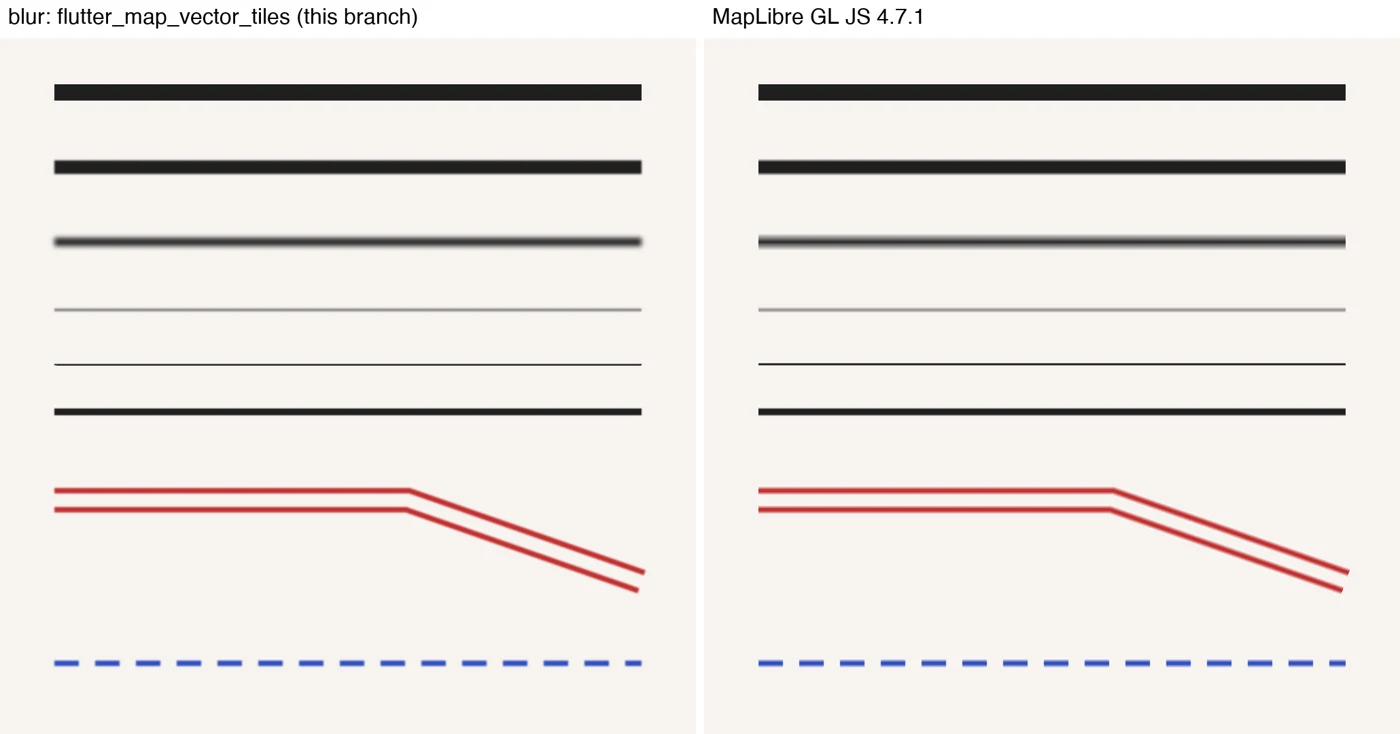
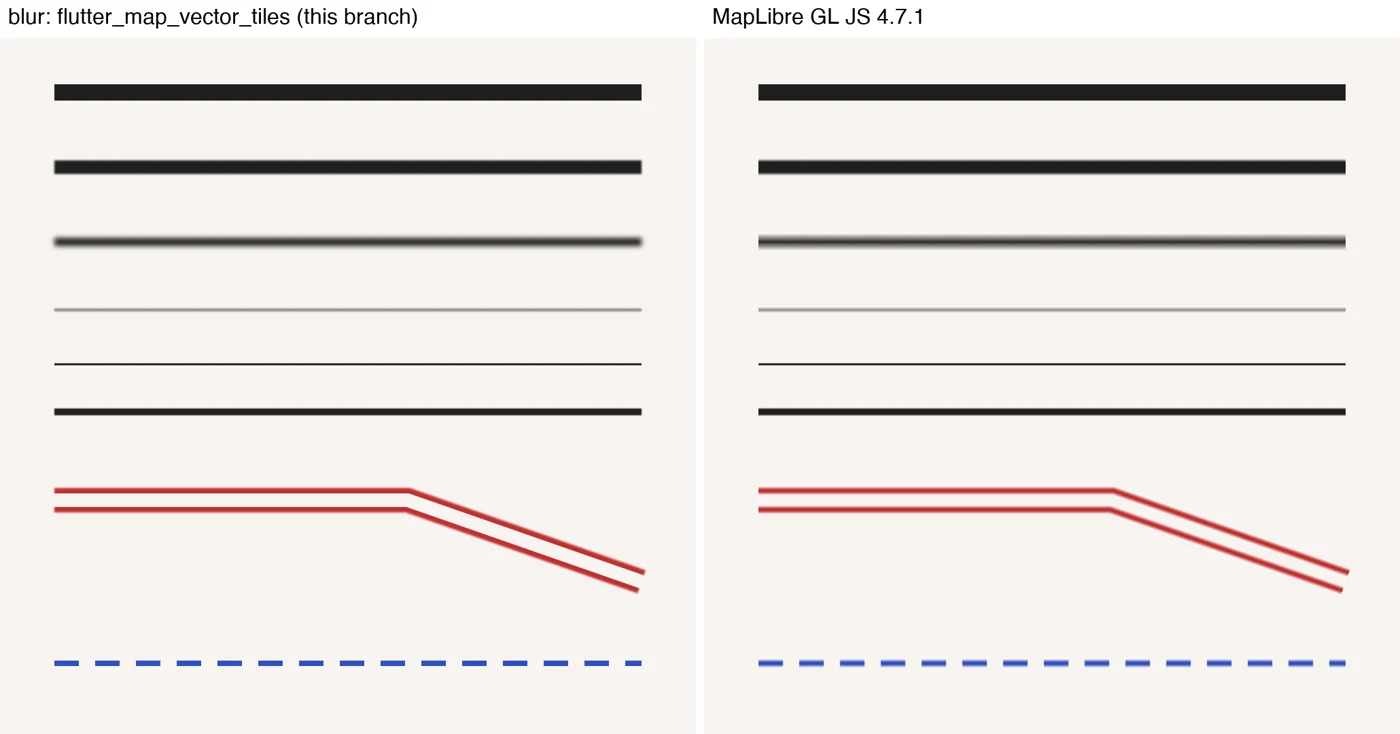
Work around two Impeller faults with blurred lines
Impeller erases a whole layer for a mask-blurred clear stroke on a bent
path, and draws nothing for a mask-blurred path of several contours
along one axis. Found on the iPhone (casings and a dashed line missing
from the blur panel) and reproduced with flutter test --enable-impeller.
A casing now blurs its outer stroke only, and such a path is drawn
narrowed without the blur.

diff --git a/lib/src/render/tile_rasterizer.dart b/lib/src/render/tile_rasterizer.dart
@@ -788,30 +788,30 @@ class TileRasterizer {
           // MapLibre fades both edges of a casing inwards from where
           // they stand: the outer one into the casing, the inner one
           // into the gap. Narrowing each stroke by the blur centres the
-          // ramps on them, as for a plain line (see [_lineStyle]).
+          // ramps on them, as for a plain line (see [_lineStyle]). Only
+          // the outer edge is blurred: Impeller erases the whole layer
+          // for a mask-blurred `BlendMode.clear` stroke on a bent path,
+          // so the inner edge stays sharp, at the middle of its ramp.
           final aa = 1 / pixelScale;
           final ramp = math.min(style.blur + aa, style.width);
-          final maskFilter = _blurFilter(ramp, pixelScale);
           casing
             ..strokeWidth = outer - (ramp - aa)
-            ..maskFilter = maskFilter;
-          gap
-            ..strokeWidth = math.max(0.0, style.gapWidth - (ramp - aa))
-            ..maskFilter = maskFilter;
-          // MapLibre blurs across a line, not along it. A blurred butt
-          // end of the gap would fade out where the casing's ends, and
-          // close it with a faint bar; a square one fades out past it.
+            ..maskFilter = _blurFilter(ramp, pixelScale);
+          gap.strokeWidth = math.max(0.0, style.gapWidth - (ramp - aa));
+          // MapLibre blurs across a line, not along it. The blurred end
+          // of the casing reaches past a butt end of the gap and would
+          // close it with a faint bar; a square one erases it.
           if (gap.strokeCap == StrokeCap.butt) gap.strokeCap = StrokeCap.square;
         }
-        canvas.drawPath(path, casing);
+        _drawStroke(canvas, path, casing);
         if (gap.strokeWidth > 0) canvas.drawPath(path, gap);
         canvas.restore();
       } else if (batch == null) {
-        canvas.drawPath(path, style.paint);
+        _drawStroke(canvas, path, style.paint);
       }
       painted = true;
     }, translate: translate);
-    if (batch != null && painted) canvas.drawPath(batch, blurred!);
+    if (batch != null && painted) _drawStroke(canvas, batch, blurred!);
     return painted;
   }
 
@@ -918,6 +918,31 @@ class TileRasterizer {
       miterLimit: miterLimit,
       paint: paint,
     );
+  }
+
+  /// Strokes [path] with [paint], minus its mask filter when the path
+  /// lies on one horizontal or vertical line: Impeller draws nothing for
+  /// a mask-blurred path of several contours whose bounds have no width
+  /// or no height (a dashed or batched axis-aligned run). Such a line is
+  /// drawn narrowed but sharp.
+  static void _drawStroke(Canvas canvas, Path path, Paint paint) {
+    if (paint.maskFilter != null) {
+      final bounds = path.getBounds();
+      if ((bounds.width == 0 || bounds.height == 0) &&
+          path.computeMetrics().take(2).length > 1) {
+        canvas.drawPath(
+            path,
+            Paint()
+              ..color = paint.color
+              ..style = PaintingStyle.stroke
+              ..strokeWidth = paint.strokeWidth
+              ..strokeCap = paint.strokeCap
+              ..strokeJoin = paint.strokeJoin
+              ..strokeMiterLimit = paint.strokeMiterLimit);
+        return;
+      }
+    }
+    canvas.drawPath(path, paint);
   }
 
   /// The Gaussian that, after anti-aliasing's own one-device-pixel

diff --git a/test/paint_properties_test.dart b/test/paint_properties_test.dart
@@ -412,7 +412,8 @@ void main() {
     test('fades the edges over the blur, as MapLibre does', () async {
       for (final blur in [2.0, 4.0]) {
         final r = await compare(8, blur);
-        expect(r.maxError, lessThan(0.08), reason: 'blur $blur');
+        // Skia stays within 0.06 of the ramp, Impeller within about 0.1.
+        expect(r.maxError, lessThan(0.12), reason: 'blur $blur');
         // A line `width` wide holds width − blur pixels of ink.
         expect(r.ink, closeTo(8 - blur, 0.05), reason: 'blur $blur');
       }
@@ -470,6 +471,50 @@ void main() {
       }
       expect(worst, lessThanOrEqualTo(2));
       expect(batched.grey(384, 192), _near(0, 30), reason: 'blurred core');
+    });
+
+    // The next two hold on Skia either way; under Impeller
+    // (`flutter test --enable-impeller`) they fail without the
+    // workarounds in `_paintLine` and `_drawStroke`.
+
+    test('a blurred dashed line along an axis still draws', () async {
+      // Several contours on one horizontal line: Impeller draws nothing
+      // for such a path under a mask filter.
+      final pixels = await _render(
+        _theme([
+          {
+            'type': 'line',
+            'paint': {
+              'line-width': 6,
+              'line-blur': 2,
+              'line-dasharray': [3, 2],
+            },
+          },
+        ]),
+        _tile([
+          _line([20, 128, 236, 128]),
+        ]),
+        devicePixelRatio: 2,
+      );
+      expect(pixels.ink(2 * 30, 2 * 110, 2 * 146), greaterThan(4));
+    });
+
+    test('a blurred casing on a bent line keeps its casing', () async {
+      // Impeller erased the whole layer for a mask-blurred gap stroke.
+      final pixels = await _render(
+        _theme([
+          {
+            'type': 'line',
+            'paint': {'line-width': 4, 'line-gap-width': 12, 'line-blur': 2},
+          },
+        ]),
+        _tile([
+          _line([20, 128, 128, 128, 236, 200]),
+        ]),
+        devicePixelRatio: 2,
+      );
+      expect(pixels.grey(2 * 64, 2 * 128), 255, reason: 'the gap');
+      expect(pixels.ink(2 * 64, 2 * 100, 2 * 160), greaterThan(8));
     });
 
     test('a blur reading the feature applies per feature', () async {
@@ -724,7 +769,10 @@ void main() {
         ]),
         _tile([_point(128, 128)]),
       );
-      expect(pixels.at(128, 128), _red);
+      // The centre is the fill; a gradient lands within a step of it.
+      final centre = pixels.at(128, 128);
+      expect(centre.r, greaterThan(0.97));
+      expect(centre.g + centre.b, lessThan(0.03));
       // Between the radius and the edge's ramp: stroke, opaque.
       final stroke = pixels.at(128 + 30, 128);
       expect(stroke.b, greaterThan(0.9));

diff --git a/test/AGENTS.md b/test/AGENTS.md
@@ -36,7 +36,7 @@ lifecycle or painting is covered by widget tests that pump a real
 | `line_pattern_test.dart`, `fill_pattern_test.dart` | Pattern paints; a `line-color` reading only `["id"]` or `["geometry-type"]` evaluated per feature, not shared across the tile |
 | `fill_extrusion_test.dart` | `fill-extrusion-opacity` per layer: overlapping buildings blended once (constant colour, per-feature colour and patterned), the alpha of `fill-extrusion-color` ignored (constant and per-feature), a plain fill as the double-blend control, no outline on extrusions, a colour reading only `["id"]` or `["geometry-type"]` evaluated per building, and a building decoded from bytes wound the wrong way still filling its overlap (the decoder's winding fix, end to end) |
 | `fill_outline_test.dart` | `fill-outline-color` dimmed by `fill-opacity` (constant and per-feature, multiplying the outline's own alpha), hidden at opacity 0, untouched by the alpha of `fill-color`, evaluated per feature when it reads only `["id"]`, one device pixel wide at pixel ratios 1 and 3, off under `fill-antialias: false`. The square's edge sits on a pixel-column centre so the outline covers exactly one column |
-| `paint_properties_test.dart` | The geometry paint and layout properties beyond colour, width and opacity, pixel by pixel: `*-translate` (constant, a zoom-interpolated `[x, y]`, a legacy stop function, a feature translated in from beyond the cull window, a pattern moving with its fill, flat extrusions), `line-offset` (sides, polygon inset with a closed corner, per feature), `line-blur` compared row by row with MapLibre's ramp at dpr 3 (full ramp, a line narrower than twice its blur, a sub-pixel blur keeping its ink, batched or drawn per feature, a layer-wide opaque blur drawn as one path matching per-feature drawing, per feature, a blurred casing keeping its gap), `line-miter-limit` (the spec default bevels a 40° turn Skia's own default would miter; a negative limit bevels too), `*-sort-key` (higher key on top, ties in source order, a zoom-reading key re-sorting per zoom), circles (stroke outside the radius, a translucent stroke not covering the fill, `circle-blur` 1 and 0.5, a blurred fill blending into its stroke), `background-pattern` (and its colour fallback, and no gap colour), `resampling`/`raster-resampling`, and the reader leaving every new property null when unset |
+| `paint_properties_test.dart` | The geometry paint and layout properties beyond colour, width and opacity, pixel by pixel: `*-translate` (constant, a zoom-interpolated `[x, y]`, a legacy stop function, a feature translated in from beyond the cull window, a pattern moving with its fill, flat extrusions), `line-offset` (sides, polygon inset with a closed corner, per feature), `line-blur` compared row by row with MapLibre's ramp at dpr 3 (full ramp, a line narrower than twice its blur, a sub-pixel blur keeping its ink, batched or drawn per feature, a layer-wide opaque blur drawn as one path matching per-feature drawing, per feature, a blurred casing keeping its gap; and two Impeller faults — a blurred axis-aligned dashed line still drawing, a blurred bent casing keeping its casing — which only fail under `flutter test --enable-impeller` without the workarounds), `line-miter-limit` (the spec default bevels a 40° turn Skia's own default would miter; a negative limit bevels too), `*-sort-key` (higher key on top, ties in source order, a zoom-reading key re-sorting per zoom), circles (stroke outside the radius, a translucent stroke not covering the fill, `circle-blur` 1 and 0.5, a blurred fill blending into its stroke), `background-pattern` (and its colour fallback, and no gap colour), `resampling`/`raster-resampling`, and the reader leaving every new property null when unset |
 | `disk_cache_test.dart`, `lru_cache_test.dart` | Cache eviction, TTL, size sweep |
 | `style_reader_cache_test.dart` | Stale-while-revalidate style loading |
 | `style_reader_sources_test.dart` | Source URL resolution: relative TileJSON/tile templates (ArcGIS `root.json` shape), `{key}` substitution |

diff --git a/compare/results/shots/2026-10-26-paint-properties/README.md b/compare/results/shots/2026-10-26-paint-properties/README.md
@@ -19,7 +19,7 @@ in headless Chrome. Same scale and the same bytes on both sides.
 |---|---|---|
 | `translate.webp` | `fill-translate` (a Bright-style building top, a translucent fill over its original outline), `line-translate`, `circle-translate` | none visible |
 | `offset.webp` | `line-offset` ±14 px on a zigzag, ±10 px on a square and a triangle | at sharp turns MapLibre leaves the outer side open and lets the inner side cross; this package bevels the outside and meets on the inside |
-| `blur.webp` | `line-blur` 0, 2, 6 on 12 px lines, 4 on a 4 px line, 0.5 on a 2 px line, 1 on a 6 px line, a blurred casing, a blurred dash | within about 0.05 alpha of MapLibre's ramp for blurs of 2 px and more; a 1 px blur has a steeper edge, up to 0.27 alpha off in single device-pixel rows, holding the same ink to within 10 % (measured at a device pixel ratio of 3 in `test/paint_properties_test.dart`'s set-up) |
+| `blur.webp` | `line-blur` 0, 2, 6 on 12 px lines, 4 on a 4 px line, 0.5 on a 2 px line, 1 on a 6 px line, a blurred casing, a blurred dash | within about 0.05 alpha of MapLibre's ramp for blurs of 2 px and more; a 1 px blur has a steeper edge, up to 0.27 alpha off in single device-pixel rows, holding the same ink to within 10 % (measured at a device pixel ratio of 3 in `test/paint_properties_test.dart`'s set-up). The casing blurs only its outer edge and the dashed line, running exactly along the tile's x axis, is drawn sharp: Impeller draws both wrongly when they are blurred (see `lib/src/render/AGENTS.md`) |
 | `miter.webp` | 30°, 50°, 70° turns at the default limit (2), at 4, at 1 | the middle row: MapLibre 4.7.1 draws its 30° and 50° miters broken; this package draws them whole |
 | `sort.webp` | `fill-sort-key`, `line-sort-key`, `circle-sort-key` against source order | MapLibre draws a fill layer's anti-aliasing outlines after all its fills, so faint edges of lower features show through higher ones |
 | `circles.webp` | strokes outside the radius (opaque and 50 %), `circle-blur` 0.5 and 1, a blurred circle with a stroke, small circles | none visible |

diff --git a/doc/ARCHITECTURE.md b/doc/ARCHITECTURE.md
@@ -202,7 +202,12 @@ still left 49 of 58. So a blur under three quarters of a device pixel of
 σ (about 0.6 px at a pixel ratio of 3) keeps just the narrowing, its
 edges about a device pixel sharper than MapLibre's, and costs nothing;
 above it, a layer whose blurred stroke is the same for every feature and
-opaque draws all its features as one path, a pass per layer and tile. Circle strokes lie outside the radius, as
+opaque draws all its features as one path, a pass per layer and tile.
+Impeller, the renderer on iOS and Android, has two faults here that
+Skia does not: it erases a whole layer for a mask-blurred clear stroke
+on a bent path, and draws nothing for a mask-blurred path of several
+contours along one axis. So a casing's inner edge stays sharp, and such
+a path is drawn narrowed without the blur. Circle strokes lie outside the radius, as
 the spec says, and `circle-blur` draws the circle as one disc whose
 radial gradient samples MapLibre's circle shader. Several properties
 are deliberately not drawn: `line-gradient` needs a GeoJSON source with

diff --git a/lib/src/render/AGENTS.md b/lib/src/render/AGENTS.md
@@ -286,7 +286,13 @@ for frames with no per-frame label work in them.
   a device pixel of σ (Americana's 0.5 px road blurs fall under it; the
   stroke keeps only the narrowing that makes its ink match MapLibre's),
   and `_paintLine` draws a layer's shared, opaque blurred stroke above
-  it as one batched path. Do not put a mask filter on
+  it as one batched path. Two Impeller faults shape the rest (found on
+  an iPhone, reproduced with `flutter test --enable-impeller`; Skia
+  draws both): a mask-blurred `BlendMode.clear` stroke on a bent path
+  erases the whole layer, so a casing blurs its outer stroke only, and
+  a mask-blurred path of several contours on one horizontal or vertical
+  line draws nothing, so `_drawStroke` drops the mask filter there. The
+  two tests after the blur profiles fail under Impeller without these. Do not put a mask filter on
   something drawn per feature without measuring frames delivered on a
   phone (`bench/` fps, `compare/`).
 - **SDF icons need the SDF paint path** (`_sdfPaint` with an edge threshold

diff --git a/README.md b/README.md
@@ -357,7 +357,10 @@ segments cross. A `line-blur` under about 0.6 px on a 3× screen (0.9 px on
 a 2× one) only narrows the line by what the blur takes, without
 softening its edges: a blur costs GPU passes, and blurring every road of
 a style by 0.5 px cost a phone a sixth to two thirds of its frames while
-tiles were drawn.
+tiles were drawn. A blurred casing (`line-gap-width`) softens only its
+outer edge, and a blurred dashed line running exactly along a tile axis
+is drawn sharp: Impeller, Flutter's renderer on iOS and Android, draws
+those two wrongly when blurred.
 
 **Icons.** SDF sprite sheets (`"sdf": true`) are thresholded and tinted
 per `icon-color`, `icon-halo-color` and `icon-halo-width`; dark MapLibre
